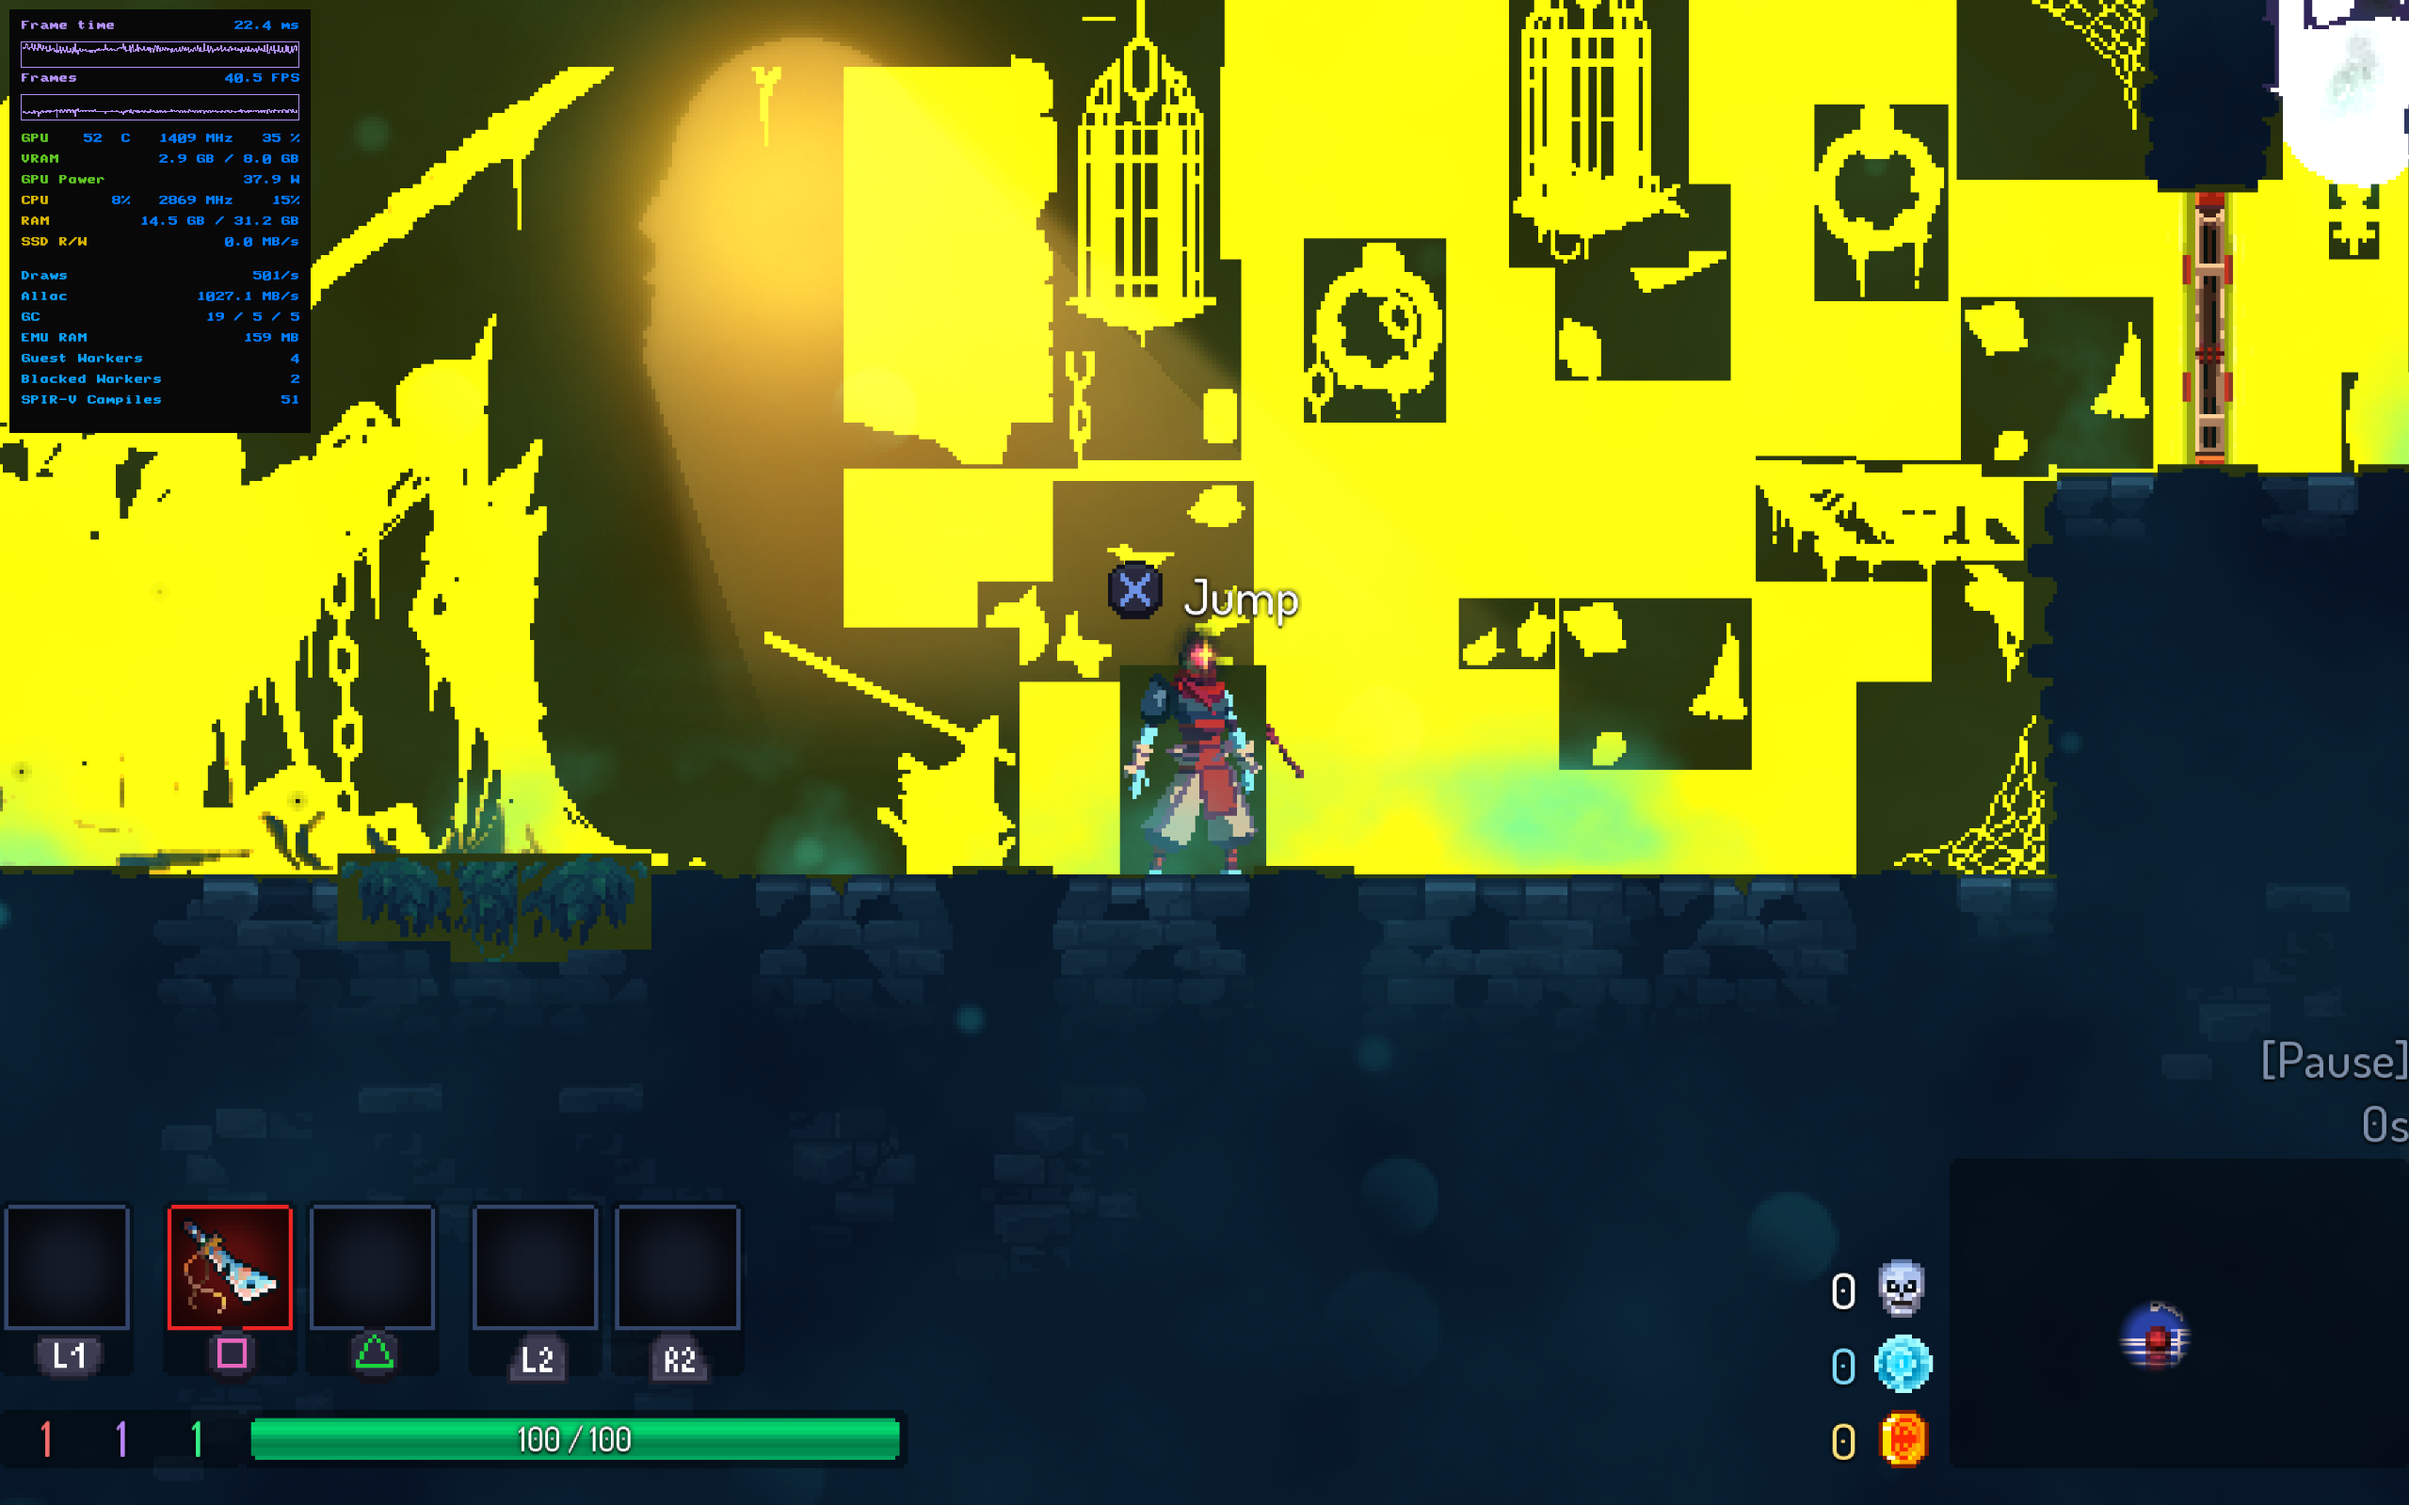
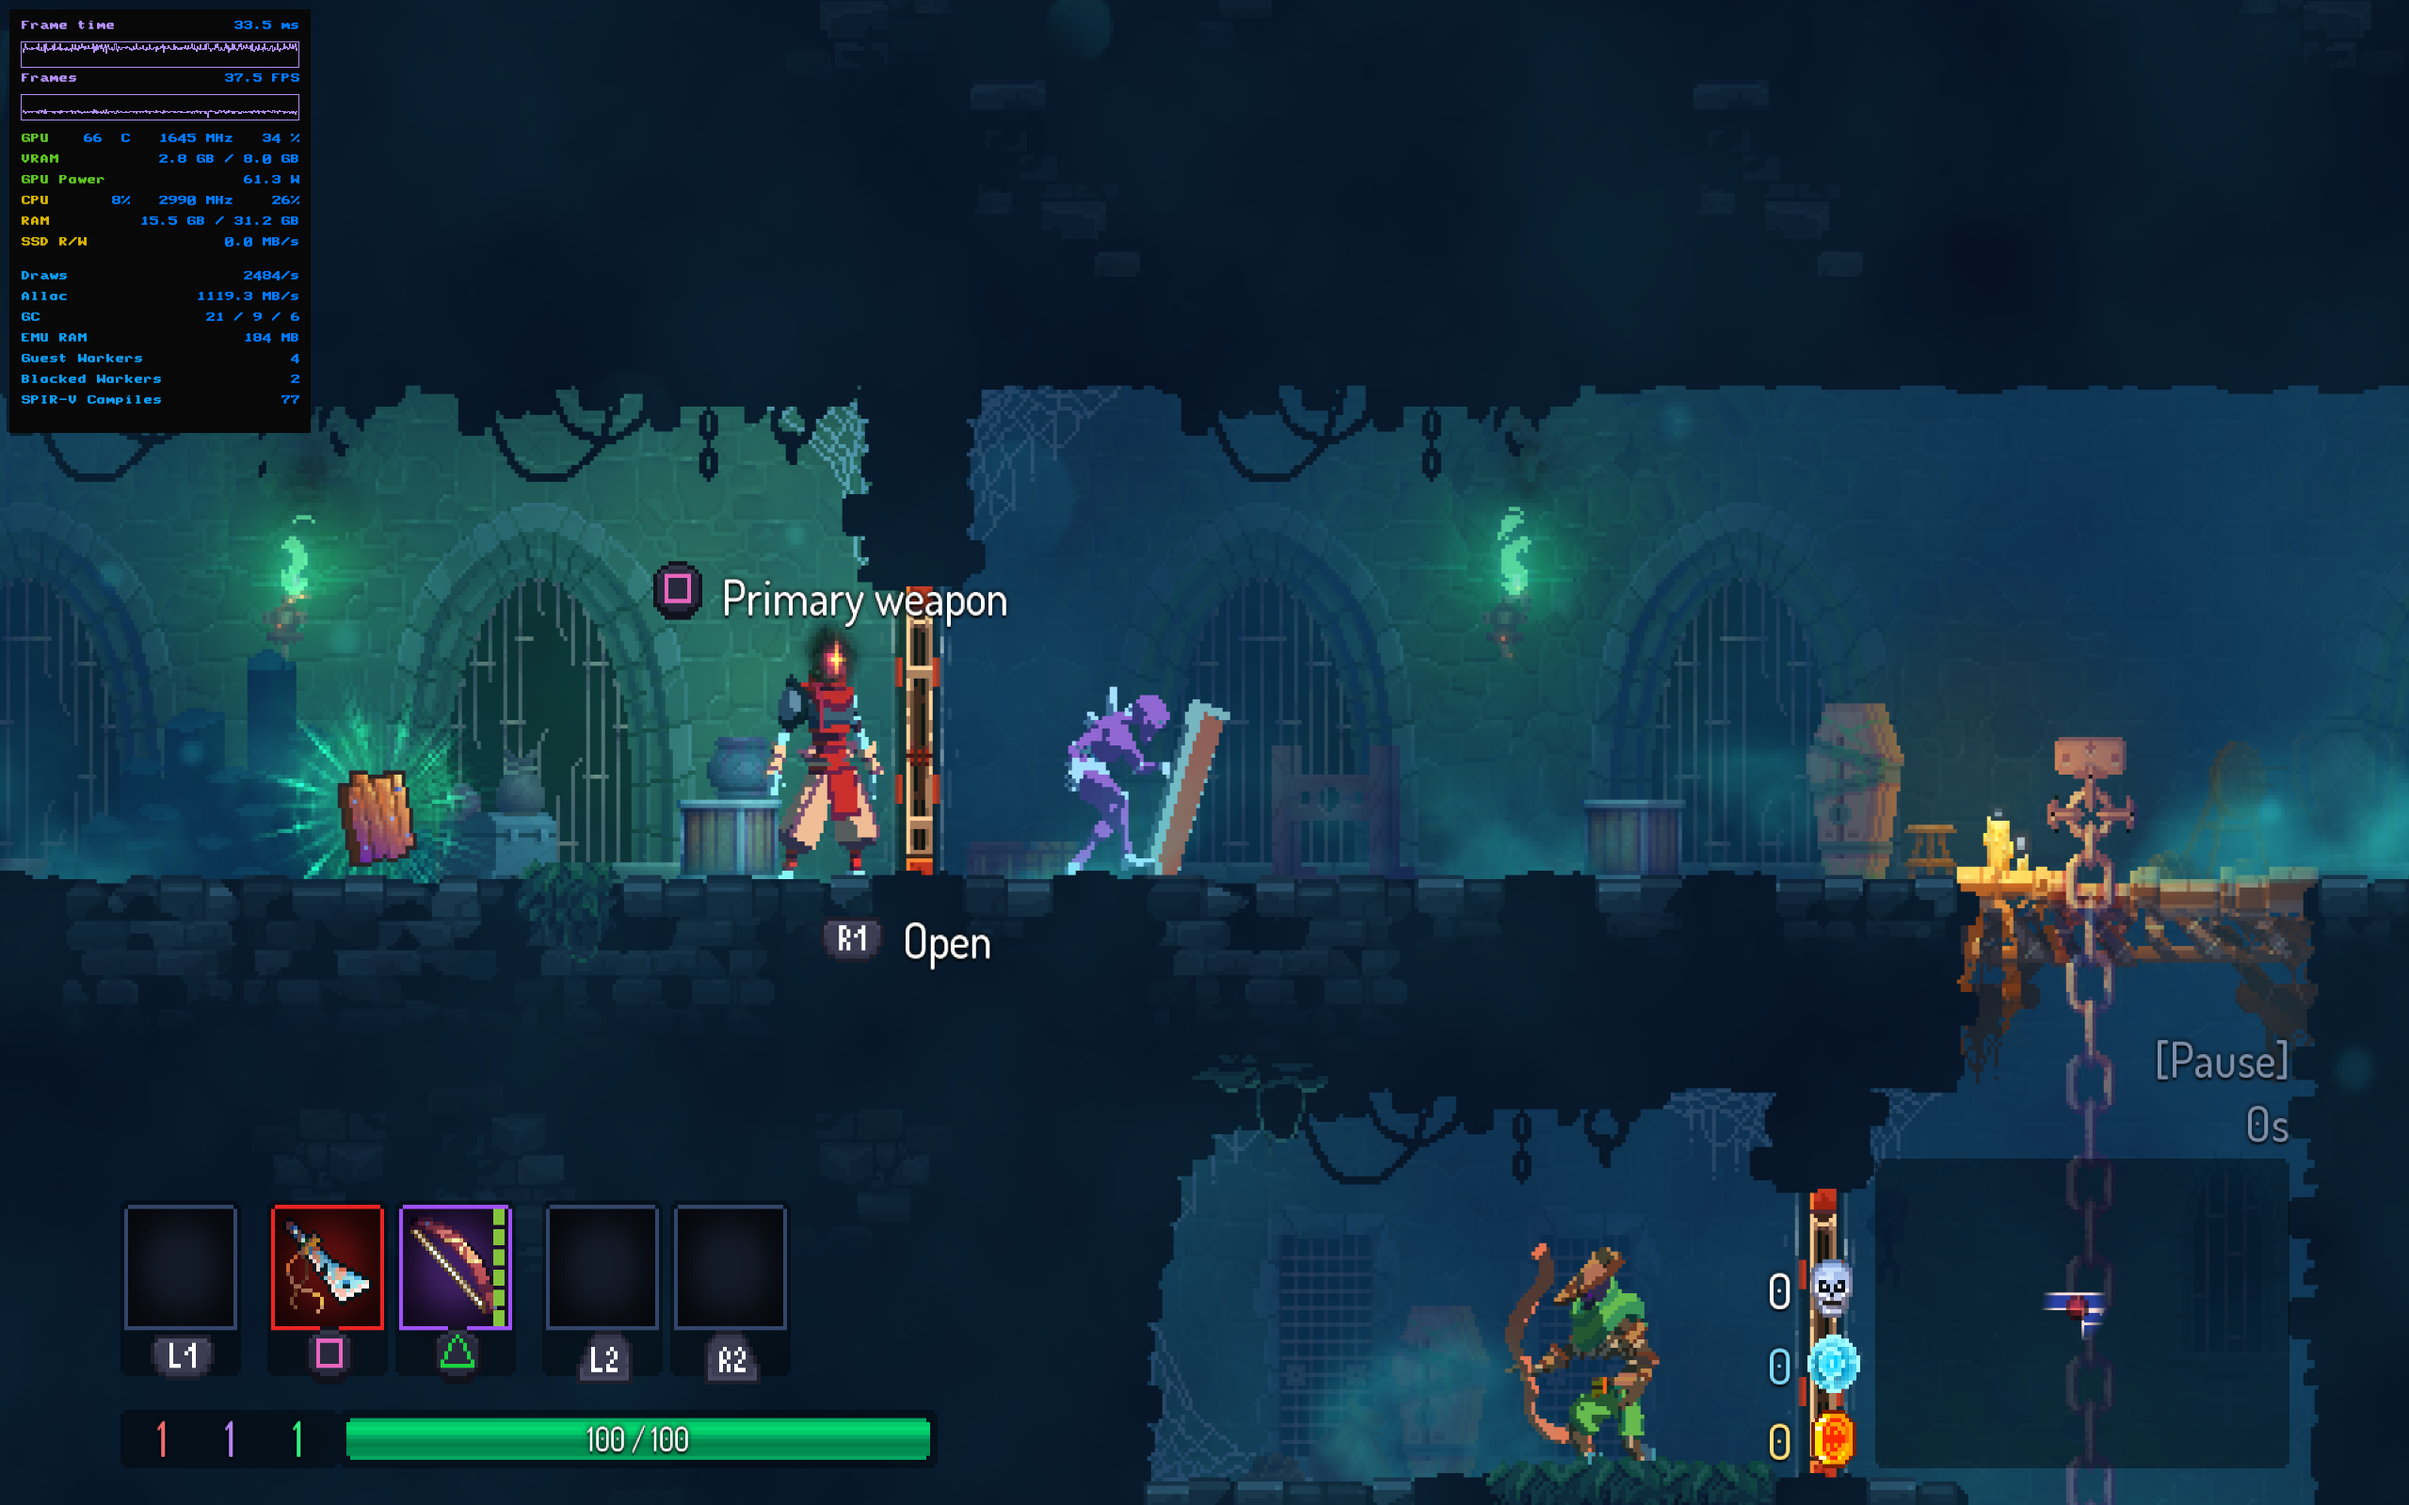
docs: promote Dead Cells to fully playable and refresh gameplay screenshot

diff --git a/README.md b/README.md
@@ -40,15 +40,15 @@ While initially inspired by and incorporating core foundations from the open-sou
 
 craziiEmu is actively progressing commercial game boot sequences and in-game execution:
 
-### *Dead Cells* (PPSA15552) — **In-Game**
-*Dead Cells* boots seamlessly into 2D gameplay with responsive combat, full controller input, and playable 30-40 FPS performance.
+### *Dead Cells* (PPSA15552) — **Fully Playable**
+*Dead Cells* boots seamlessly into 2D gameplay with responsive combat, full controller input, and stable performance.
 
 <div align="center">
-  <img src="./assets/images/dead-cells.png" width="88%" alt="Dead Cells In-Game on craziiEmu"/>
-  <p><em>Dead Cells running in-game on craziiEmu (30-40 FPS, Vulkan backend)</em></p>
+  <img src="./assets/images/dead-cells.png" width="88%" alt="Dead Cells Fully Playable on craziiEmu"/>
+  <p><em>Dead Cells running fully playable on craziiEmu (Vulkan backend)</em></p>
 </div>
 
-*Current Status:* In-game at 30-40 FPS (minor visual passes remaining).
+*Current Status:* Fully playable.
 
 ---
 
@@ -80,8 +80,8 @@ craziiEmu is actively progressing commercial game boot sequences and in-game exe
 
 | Tier | Meaning | Representative Titles |
 | :--- | :--- | :--- |
-| **Playable** | Boots, reaches gameplay, and can be played with stable performance and sound. | *Dreaming Sarah*, *void tRrLM(); //Void Terrarium* |
-| **In-Game** | Reaches gameplay loop, but performance issues or game-breaking glitches may occur. | *Dead Cells* (minor visual passes remaining) |
+| **Playable** | Boots, reaches gameplay, and can be played with stable performance and sound. | *Dead Cells*, *Dreaming Sarah*, *void tRrLM(); //Void Terrarium* |
+| **In-Game** | Reaches gameplay loop, but performance issues or game-breaking glitches may occur. | — |
 | **Intro / Logo** | Boots past bootloader, initializes runtime services, and renders intro/title logos. | *Stray*, *Among Us*, *Naiad*, *Grand Theft Auto V* |
 | **Loads** | Parses ELF/SELF headers, loads modules, but crashes before rendering visual frames. | *Sonic Superstars* |
 
